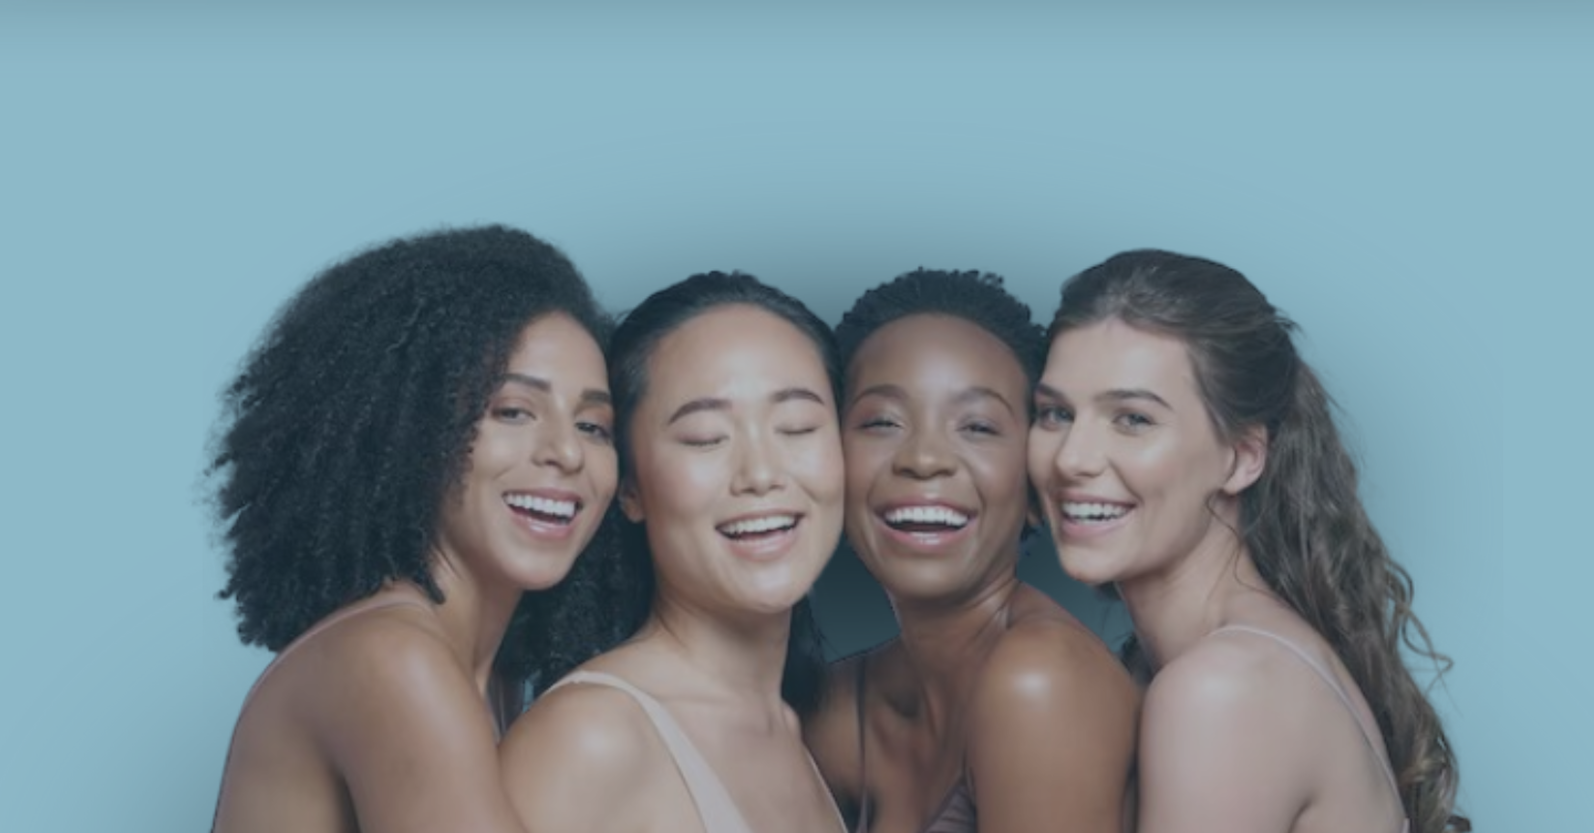
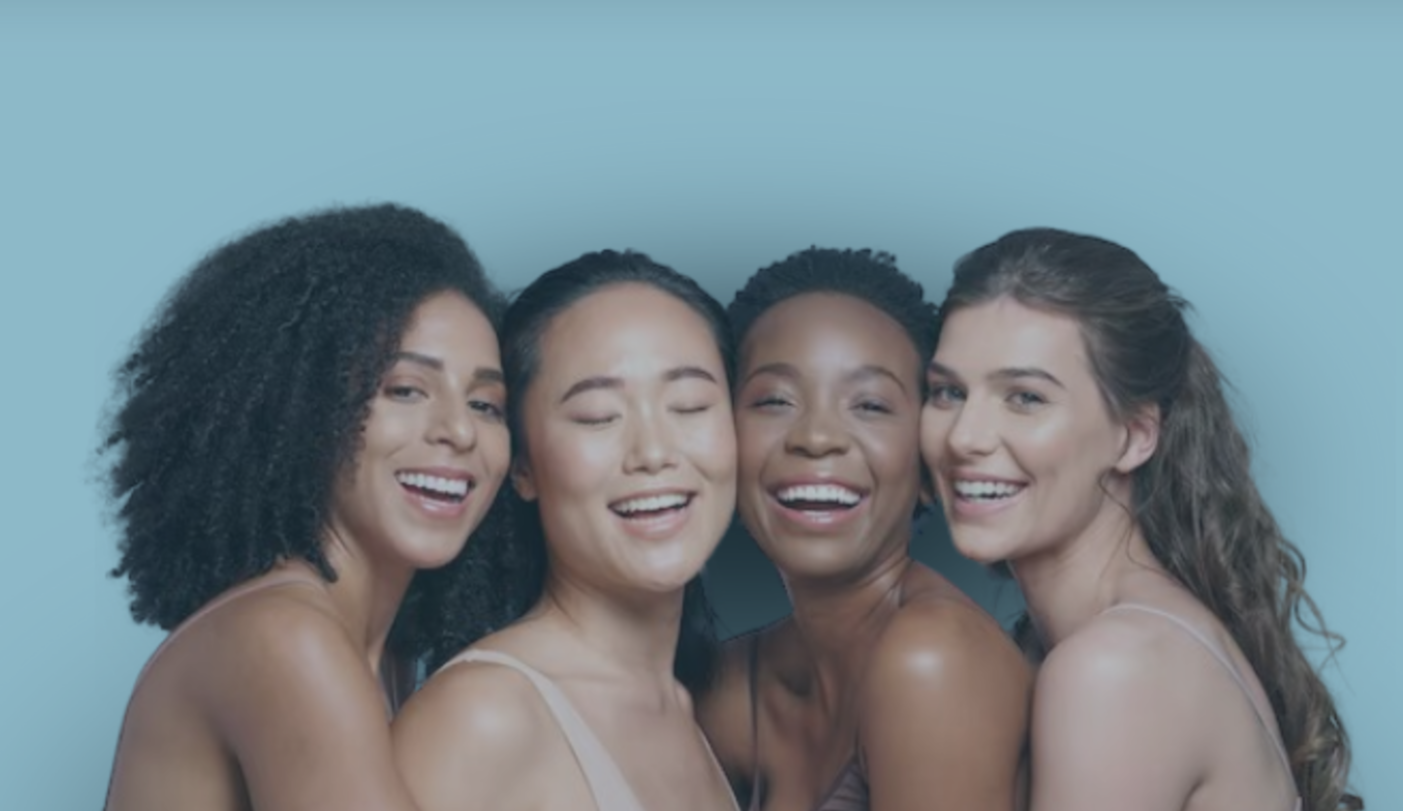
fix: update image path and adjust container height

diff --git a/src/app/page.module.css b/src/app/page.module.css
@@ -1,10 +1,4 @@
 .container {
-  background-image: url('../../public/Main-image.png');
-  height: 52rem;
-}
-
-.mainImage {
-  width: 100%;
-  height: auto;
-  flex-shrink: 0;
+  background-image: url('../../public/main-image.png');
+  height: 100vh;
 }
